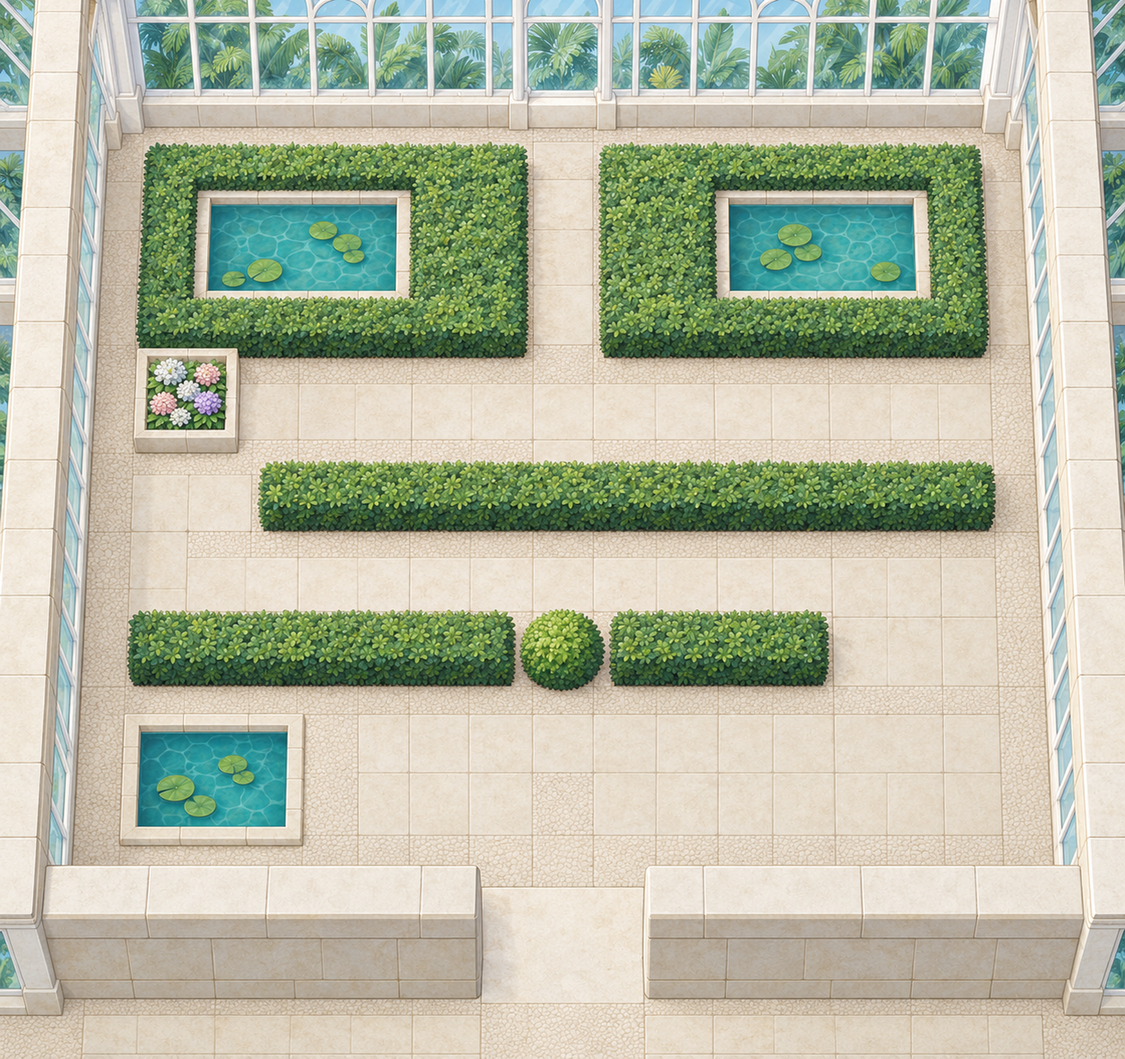
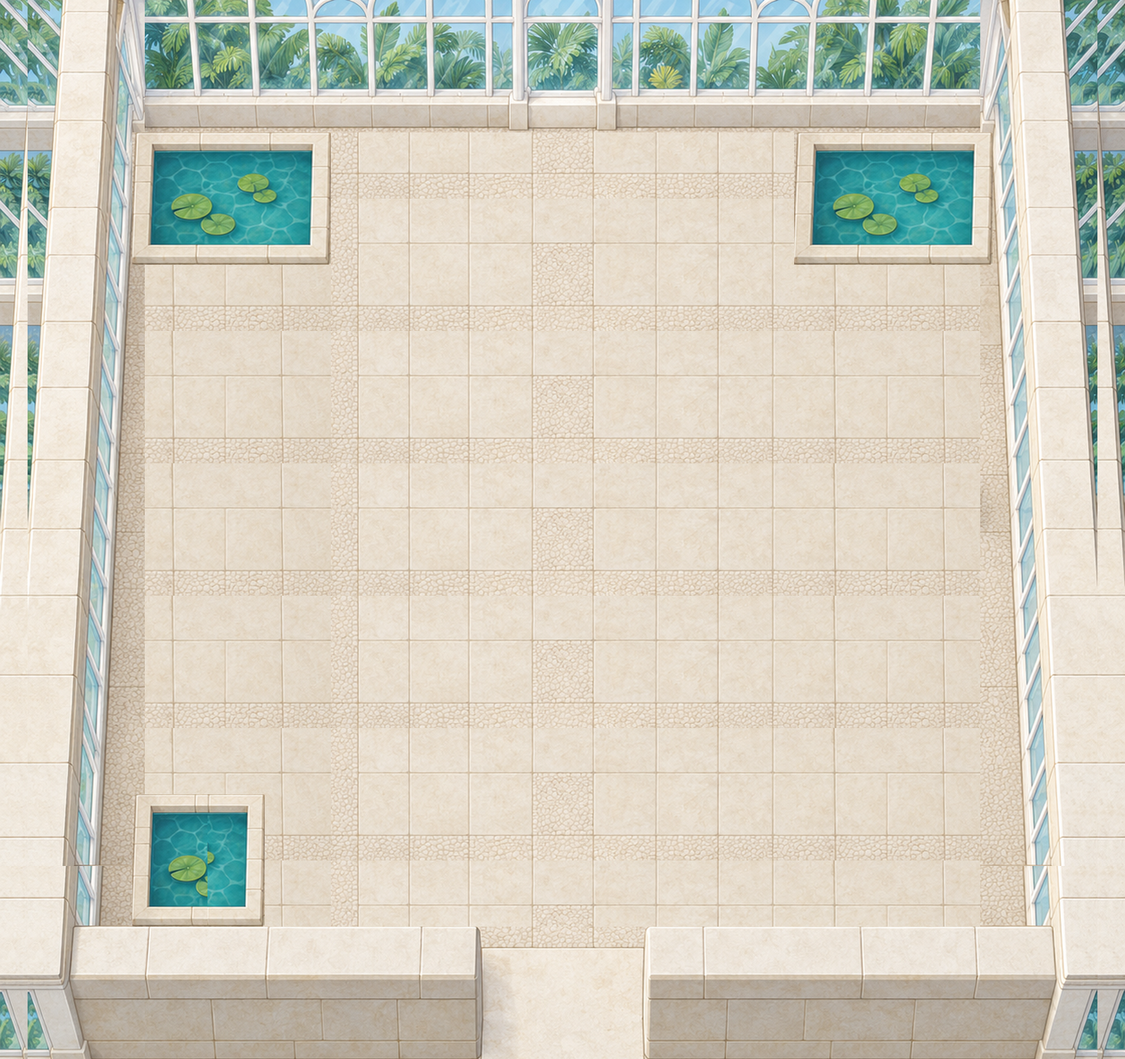
Arène de Céladopole : coque repeinte d'après la grille (sans haies ni jardinière peintes, bassins sur leurs cases, mur du bas et parois recalés)

diff --git a/tools/art/coque_celadon.py b/tools/art/coque_celadon.py
@@ -1,0 +1,121 @@
+#!/usr/bin/env python3
+"""Coque de l'Arène de Céladopole repeinte d'après la grille (audit du 2026-11-14 ; Kevin :
+« repeins les arènes »). La coque de la série 22 bis peignait aussi des haies, une jardinière
+et des bassins placés selon une ancienne mise en page : on marchait sur des haies peintes et
+sur l'eau. Les haies et le massif sont déjà des objets peints posés par
+`tools/build_celadon_gym.gd` sur les cases `x` et `j` du plan ; la coque ne garde donc que le
+sol, les murs, la verrière et les bassins `w`, reposés sur leurs cases.
+
+  - Sol : toutes les cases de sol reprennent un bloc de dalles propre (même phase de motif).
+  - Mur du bas descendu d'une rangée (son dessus couvrait la rangée 13, praticable) ; parois
+    latérales avancées de 40 px (colonnes 1 et 15 bloquées).
+  - Bassins : le bassin isolé du coin sud-ouest (margelle comprise) sert de modèle, recadré à
+    la taille du bloc `w` (3 × 2 en haut, 2 × 2 en bas ; pour 2 × 2, le milieu est retiré).
+
+Repart toujours de la coque d'origine (commit SOURCE), donc relançable.
+
+  python3 tools/art/coque_celadon.py
+"""
+import io
+import os
+import subprocess
+
+from PIL import Image
+
+ROOT = os.path.dirname(os.path.dirname(os.path.dirname(os.path.abspath(__file__))))
+SOURCE = "a85e8fc31"
+SHELL = "assets/world/interiors/int_celadon_gym_coque.png"
+PLAN = "tools/plans/celadopole_arene.txt"
+TILE = 96
+# Bassin modèle (margelle comprise).
+POOL = (175, 1035, 442, 1228)
+FLOOR_X = range(2, 15)
+FLOOR_Y = range(2, 14)
+# Haut du mur du bas peint (px) et descente pour qu'il commence à la rangée 14.
+BOTTOM_WALL_Y = 1256
+WALL_DROP = 14 * TILE - BOTTOM_WALL_Y
+SIDE_STRIP = 170
+SIDE_SHIFT = 40
+
+
+def original() -> Image.Image:
+    data = subprocess.run(["git", "show", f"{SOURCE}:{SHELL}"], cwd=ROOT, check=True,
+                          capture_output=True).stdout
+    return Image.open(io.BytesIO(data)).convert("RGBA")
+
+
+def plan_rows() -> list:
+    rows = []
+    for line in open(os.path.join(ROOT, PLAN), encoding="utf-8"):
+        if len(line) > 3 and line[:2].isdigit() and line[2] == " ":
+            rows.append(line[3:].rstrip("\n"))
+    return rows
+
+
+def pool_image(src: Image.Image, cols: int, rows: int) -> Image.Image:
+    pool = src.crop(POOL)
+    w, h = cols * TILE, rows * TILE
+    if pool.width > w + 40:
+        # Bassin étroit : on retire le milieu (margelles gauche et droite intactes).
+        left = w * 4 // 7
+        right = w - left
+        cut = Image.new("RGBA", (w, pool.height))
+        cut.paste(pool.crop((0, 0, left, pool.height)), (0, 0))
+        cut.paste(pool.crop((pool.width - right, 0, pool.width, pool.height)), (left, 0))
+        pool = cut
+    return pool.resize((w, h), Image.LANCZOS)
+
+
+def blocks(rows: list, char: str) -> list:
+    seen, out = set(), []
+    for y, row in enumerate(rows):
+        for x, c in enumerate(row):
+            if c != char or (x, y) in seen:
+                continue
+            x1 = x
+            while x1 + 1 < len(row) and row[x1 + 1] == char:
+                x1 += 1
+            y1 = y
+            while y1 + 1 < len(rows) and all(rows[y1 + 1][i] == char for i in range(x, x1 + 1)):
+                y1 += 1
+            for yy in range(y, y1 + 1):
+                for xx in range(x, x1 + 1):
+                    seen.add((xx, yy))
+            out.append((x, y, x1 - x + 1, y1 - y + 1))
+    return out
+
+
+def main() -> None:
+    src = original()
+    w, h = src.size
+    out = src.copy()
+    # Mur du bas : peint une rangée trop haut (son dessus couvrait la rangée 13, praticable) ;
+    # descendu de WALL_DROP px, le bas de l'image (dehors) est rogné. Les parois latérales
+    # comblent le vide avec la rangée de paroi du dessus.
+    out.paste(src.crop((0, BOTTOM_WALL_Y, w, h - WALL_DROP)), (0, BOTTOM_WALL_Y + WALL_DROP))
+    for x0 in (0, w - 2 * TILE):
+        band = src.crop((x0, BOTTOM_WALL_Y - WALL_DROP, x0 + 2 * TILE, BOTTOM_WALL_Y))
+        out.paste(band, (x0, BOTTOM_WALL_Y))
+    walls = out.copy()
+    # Sol : toutes les cases praticables reprennent le bloc de dalles propre (rangées 11..12,
+    # colonnes 5..14), même phase de motif (colonnes et rangées de même parité).
+    for y in FLOOR_Y:
+        for x in FLOOR_X:
+            sx = x if x >= 5 else x + 10
+            sy = 11 + (y - 11) % 2
+            out.paste(src.crop((sx * TILE, sy * TILE, (sx + 1) * TILE, (sy + 1) * TILE)),
+                      (x * TILE, y * TILE))
+    # Parois latérales : elles laissaient ~40 px de sol peint sur les colonnes 1 et 15 (bloquées).
+    # La bande de paroi d'origine (sans le sol) avance de SIDE_SHIFT px ; posée avant les bassins.
+    out.paste(walls.crop((0, 0, SIDE_STRIP, h)), (SIDE_SHIFT, 0))
+    out.paste(walls.crop((w - SIDE_STRIP, 0, w, h)), (w - SIDE_STRIP - SIDE_SHIFT, 0))
+    for x, y, bw, bh in blocks(plan_rows(), "w"):
+        img = pool_image(src, bw, bh)
+        out.paste(img, (x * TILE, y * TILE), img)
+        print(f"bassin {bw}×{bh} en ({x}, {y})")
+    out.save(os.path.join(ROOT, SHELL))
+    print(f"{SHELL} : repeinte d'après {PLAN}")
+
+
+if __name__ == "__main__":
+    main()
